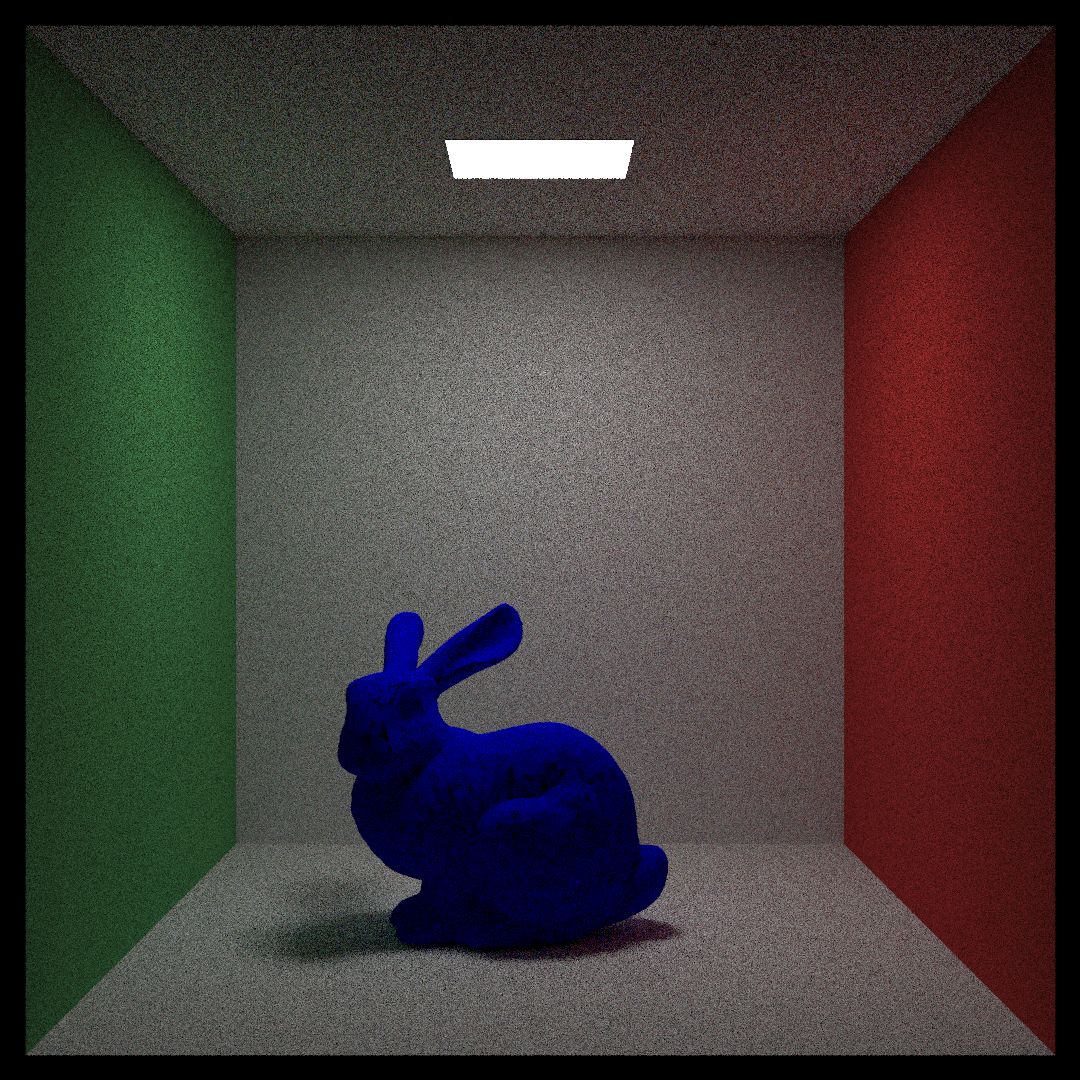
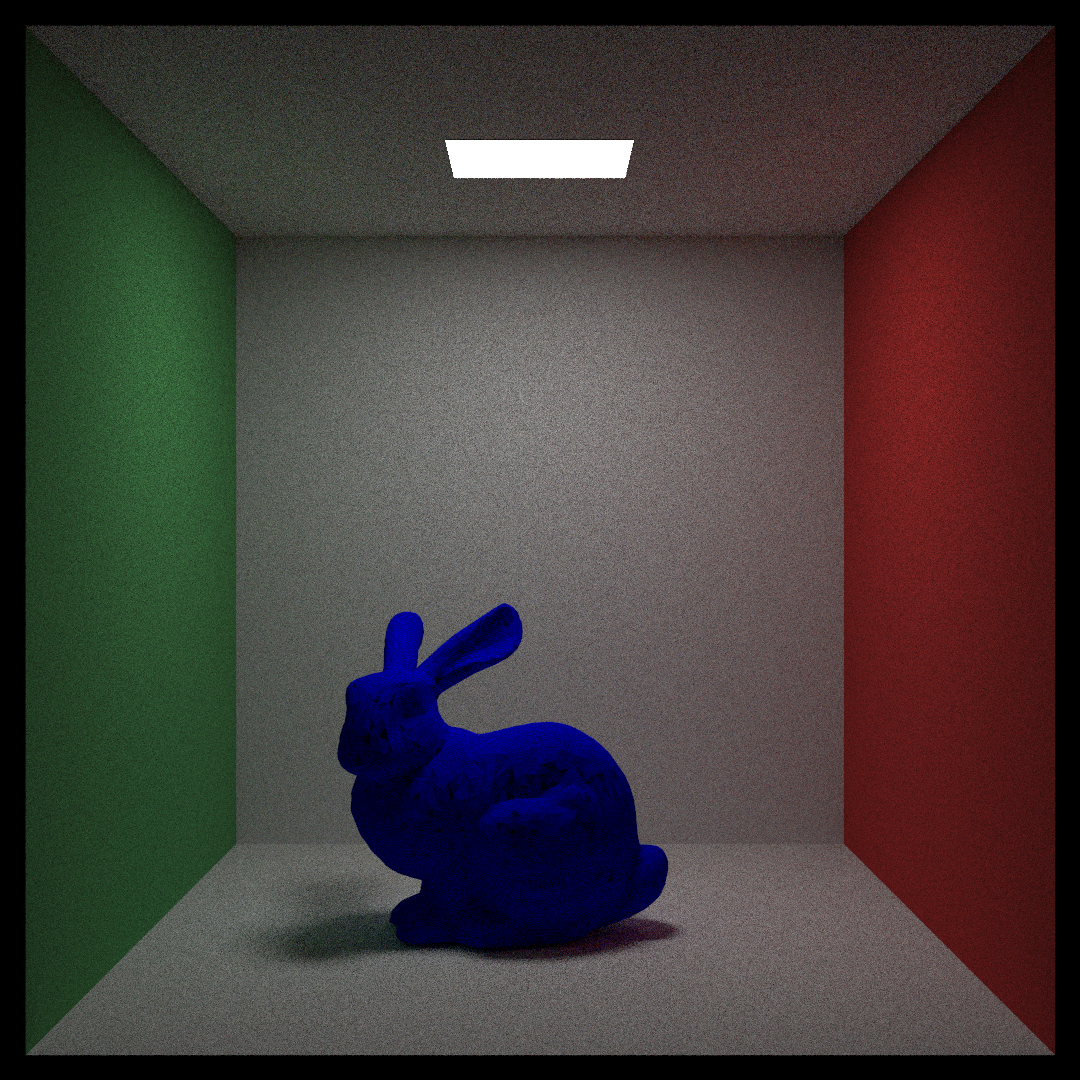
improved quality

Changed region(s): [[0.0306, 0.0, 0.9778, 0.9778]]

diff --git a/src/bin/render.rs b/src/bin/render.rs
@@ -25,8 +25,8 @@ use simple_ray_tracer_kernels::{
         translate::Translate,
     },
     materials::{
-        dielectric::Dielectric, diffuse_light::DiffuseLight, is_front::IsFront,
-        isotropic::Isotropic, lambertian::Lambertian, metal::Metal,
+        dielectric::Dielectric, diffuse_light::DiffuseLight, isotropic::Isotropic,
+        lambertian::Lambertian, metal::Metal,
     },
     random::RandomRange,
     textures::{
@@ -601,7 +601,7 @@ fn bunny<'a>(options: &mut RenderOptions) -> HitableListBuilder<'a> {
     options.lookat = Point3::new(278.0, 278.0, 0.0);
     options.vup = Vec3::new(0.0, 1.0, 0.0);
     options.width = options.height;
-    options.samples_per_pixel = 20;
+    options.samples_per_pixel = 50;
 
     options.defocus_angle = 0.0;
 
